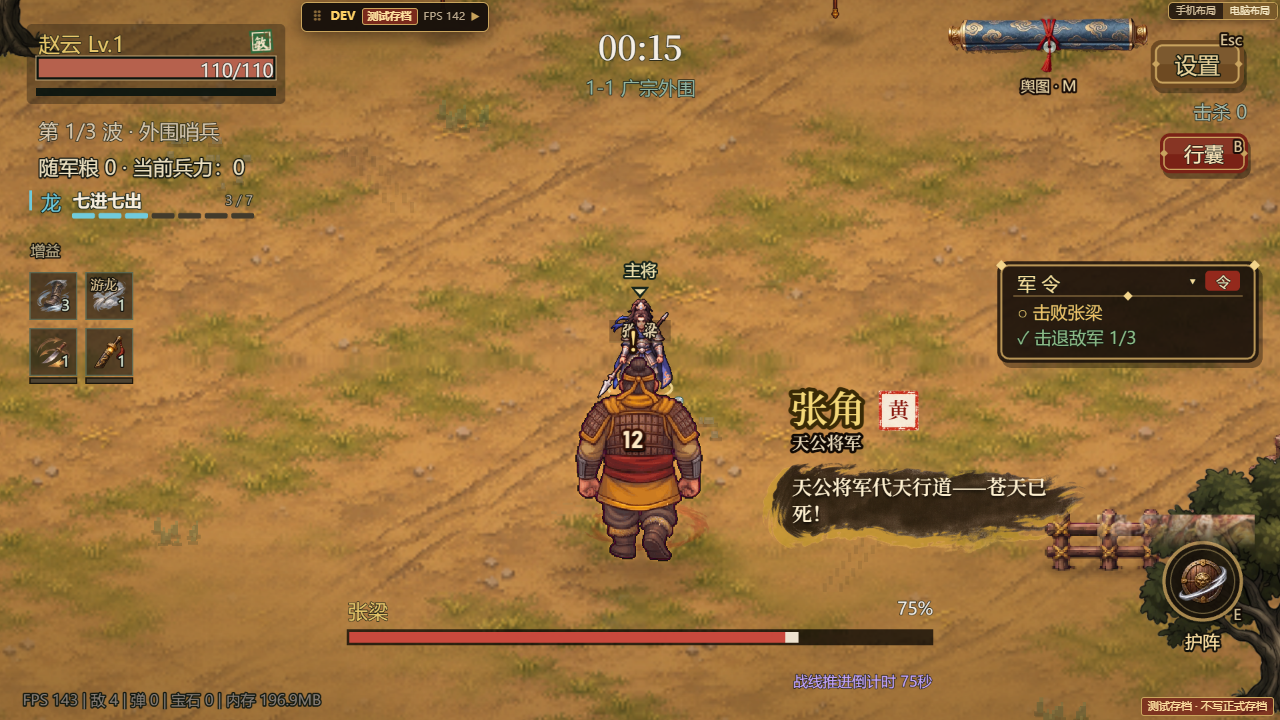
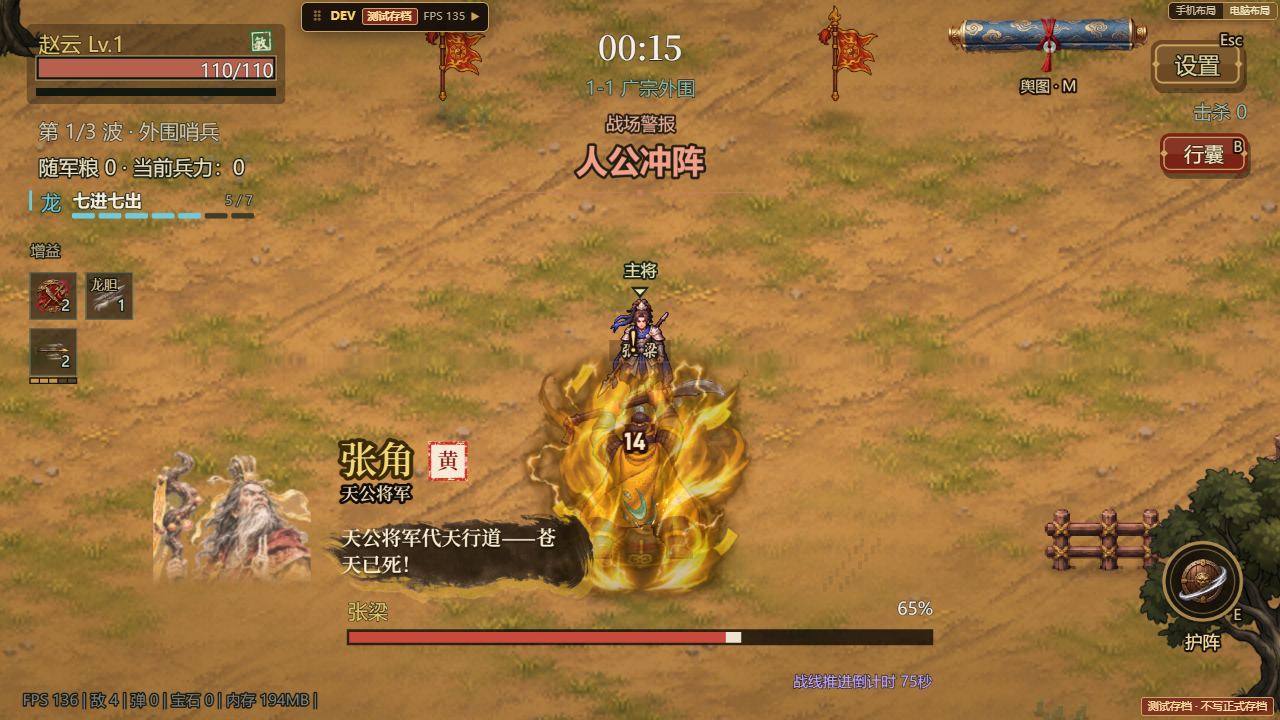
剧情台词卡挪到左下角（用户：「关于剧情对话挪到左下角」）
- 电脑布局：敌我台词卡都在左下角——增益图标列右边（x 106）、首领血条上面（底边 y 446），不挡增益（最多 10 个）、首领血条、FPS 调试行、主将；
  立绘在左、台词在右、从左滑入，同一位置排队；宽收到 340；阵营色 / 朱印 / 称号照旧按说话人
- 手机布局不变（左下是摇杆）：敌方右、我方左
- 漆底备用卡同样放左下
- 战中卷轴（midScroll）是暂停战斗的居中大卷轴、带「继续」按钮，不是侧栏，保持居中
- test-story-barkcard：加「敌方也在左下」「我方同位置」两项；「剧情关掉」一项先等上一步截图的卡收完（之前机器忙时会误判），9/9

diff --git a/src/ui/StoryBarkCard.ts b/src/ui/StoryBarkCard.ts
@@ -2,7 +2,9 @@
  * 首领台词侧边立绘卡（2026-11-18 夜，统筹定「方案 2：不暂停」；2026-11-19 用户选定「电影感」样式，见 ui/StoryBarkCardStyles.ts，下面的漆底卡只在手绘件载不到时用）：首领登场 / 二阶段 / 倒下等剧情 bark 说话时，
  * 屏幕边上滑进一张半透明黑漆描金小卡（2026-11-19 起半透明，文字带阴影）——外侧是说话人的对白水墨立绘（ink_cast / ink_hero，取头肩），内侧是名字 + 台词（标题字）。
  * - 敌方从右边滑入、我方（可玩武将 / 主公）从左边；停 HOLD 毫秒后滑出；几句挨得近就排队一张一张出。
- * - 放在侧边空带：右边在军令面板下、护阵按钮上，左边在增益图标下；不挡首领血条（底部中间）、军令、舆图、主将（屏幕中间）。
+ * - 电脑布局（2026-11-19 用户「剧情对话挪到左下角」）：敌我都在左下角——增益图标列右边（增益最多 10 个、5 行，到 y≈408、x≈100）、首领血条（x ≥ 260、y ≈ 450–484）上面、
+ *   左下 FPS 调试行上面，不挡主将（屏幕中间）；立绘在左、台词在右、从左滑入，同一位置排队。手机仍按旧摆法：敌方右边、我方左边（左下是摇杆）。
+ * - 旧摆法放在侧边空带：右边在军令面板下、护阵按钮上，左边在增益图标下；不挡首领血条（底部中间）、军令、舆图、主将（屏幕中间）。
  * - 用真实时钟（performance.now）推进，不受战斗暂停影响；不暂停战斗、不吃点击。
  * - 没有立绘时画一枚朱文名字章代替（与剧情卷轴一致）。
  */
@@ -16,6 +18,8 @@ export interface BarkCardLine { side: 'left' | 'right'; name: string; text: stri
 /** 卡片尺寸与时长（毫秒）；top 是卡片顶边的 y（游戏坐标：电脑布局 960 宽，显示时放大到 1280×720；右边夹在军令面板（底 ≈271）与护阵按钮（顶 ≈405）之间，左边在增益图标（底 ≈290）下）。 */
 // 2026-11-19 用户「用药和军令重叠了」：右边的卡让开最右一列圆钮（用药 / 加点 / 护阵，x ≥ 864）——电脑版右缘留 rightClear
 export const BARK_CARD = { w: 330, h: 100, face: 86, hold: 2700, slide: 260, gap: 140, top: { right: 290, left: 300 }, margin: 10, rightClear: 104 } as const;
+/** 电脑布局左下角：卡的左边 x、底边 y（游戏坐标） */
+export const BARK_CORNER = { x: 106, bottom: 446 } as const;
 const sideMargin = (side: 'left' | 'right'): number => side === 'right' && IS_DESKTOP ? BARK_CARD.rightClear : BARK_CARD.margin;
 const STATE_KEY = '__storyBarkCards';
 /** 出过的卡（名字 + 台词）记一笔，最多 50 条（测试读：scene.data.get('__storyBarkCardLog')）。 */
@@ -55,7 +59,7 @@ function withPortrait(scene: Phaser.Scene, key: string | undefined, go: () => vo
 
 function build(scene: Phaser.Scene, line: BarkCardLine, done: () => void): void {
   if (scene.sys.settings.status >= Phaser.Scenes.SHUTDOWN) { done(); return; }
-  const C = BARK_CARD, right = line.side === 'right', x0 = right ? GAME_WIDTH - sideMargin('right') - C.w : C.margin, y0 = C.top[line.side];
+  const C = BARK_CARD, right = line.side === 'right' && !IS_DESKTOP, x0 = IS_DESKTOP ? BARK_CORNER.x : right ? GAME_WIDTH - sideMargin('right') - C.w : C.margin, y0 = IS_DESKTOP ? BARK_CORNER.bottom - C.h : C.top[line.side];
   const off = right ? C.w + C.margin + 20 : -(C.w + C.margin + 20);
   const root = scene.add.container(x0 + off, y0).setScrollFactor(0).setDepth(DEPTH.overlay - 8).setName('story-bark-card');
   root.setData('side', line.side).setData('name', line.name).setData('text', line.text);
@@ -98,7 +102,7 @@ function build(scene: Phaser.Scene, line: BarkCardLine, done: () => void): void 
 /** 电影感台词卡（ui/StoryBarkCardStyles.ts） */
 function buildStyled(scene: Phaser.Scene, line: BarkCardLine, done: () => void): void {
   if (scene.sys.settings.status >= Phaser.Scenes.SHUTDOWN) { done(); return; }
-  const card = buildCinematic(scene, line, GAME_WIDTH, sideMargin(line.side));
+  const card = buildCinematic(scene, line, GAME_WIDTH, sideMargin(line.side), IS_DESKTOP ? BARK_CORNER : undefined);
   const root = card.root.setDepth(DEPTH.overlay - 8).setName('story-bark-card');
   root.setData('side', line.side).setData('name', line.name).setData('text', line.text).setData('style', 'cinematic');
   if (line.portrait && scene.textures.exists(line.portrait)) root.setData('portrait', line.portrait);

diff --git a/src/ui/StoryBarkCardStyles.ts b/src/ui/StoryBarkCardStyles.ts
@@ -70,12 +70,16 @@ interface In { side: 'left' | 'right'; name: string; text: string; portrait?: st
 const txt = (s: Phaser.Scene, x: number, y: number, v: string, size: number, color: string, extra: Phaser.Types.GameObjects.Text.TextStyle = {}): Phaser.GameObjects.Text =>
   s.add.text(x, y, v, { fontFamily: HEADING_FONT, fontSize: size + 'px', color, resolution: 2, ...extra }).setScrollFactor(0);
 
-/** 电影感台词卡（敌方右、我方左；游戏坐标，电脑布局 960 宽）：外侧立绘一栏、内侧文字一栏，台词不压立绘。 */
-export function buildCinematic(s: Phaser.Scene, l: In, W: number, margin: number): StyledCard {
-  const right = l.side === 'right', ally = !right, f = factionOf(l.id, ally);
-  const w = 372, PW = 124, gap = 10, colW = w - PW - gap, x0 = right ? W - margin - w : margin, y0 = 290;
+/**
+ * 电影感台词卡（游戏坐标，电脑布局 960 宽）：外侧立绘一栏、内侧文字一栏，台词不压立绘。
+ * place 给了（电脑布局，2026-11-19 用户「剧情对话挪到左下角」）：不分敌我都放左下——左边 x = place.x、底边 = place.bottom，立绘在左栏、台词在右栏、从左滑入，宽收到 340；
+ * 没给（手机）：敌方右、我方左（旧摆法）。阵营色 / 朱印 / 称号始终按说话人（side 是说话人的阵营）。
+ */
+export function buildCinematic(s: Phaser.Scene, l: In, W: number, margin: number, place?: { x: number; bottom: number }): StyledCard {
+  const ally = l.side === 'left', right = !place && !ally, f = factionOf(l.id, ally);
+  const w = place ? 340 : 372, PW = 124, gap = 10, colW = w - PW - gap, x0 = place ? place.x : right ? W - margin - w : margin;
   const cx0 = right ? 0 : PW + gap; // 文字栏左边
-  const root = s.add.container(x0, y0).setScrollFactor(0);
+  const root = s.add.container(x0, 0).setScrollFactor(0);
   // 名字（大号标题字）+ 阵营朱印 + 称号
   const tx = cx0 + 12, tw = colW - 30;
   const name = txt(s, tx, 0, l.name, 28, f.light, { stroke: f.dark, strokeThickness: 6 }).setName('story-bark-card-name');
@@ -85,7 +89,8 @@ export function buildCinematic(s: Phaser.Scene, l: In, W: number, margin: number
   // 台词：在文字栏里换行；笔刷带只铺文字栏，高度跟着台词
   const say = txt(s, tx + 4, 0, l.text, 15, '#fff1d0', { wordWrap: { width: tw, useAdvancedWrap: true }, lineSpacing: 2 }).setShadow(0, 2, '#000000', 4, false, true).setName('story-bark-card-text');
   if (say.height > 66) say.setFontSize(13);
-  const sy = 56, sh = Math.max(52, say.height + 24), h = sy + sh;
+  const sy = 56, sh = Math.max(52, say.height + 24), h = sy + sh, y0 = place ? place.bottom - h : 290;
+  root.setY(y0);
   say.setY(sy + (sh - say.height) / 2);
   // 墨迹晕开（入场时在笔刷带后面放一遍，手绘 8 帧）
   const bloom = s.textures.exists('barkui_inkbloom') ? s.add.sprite(cx0 + colW / 2, sy + sh / 2, 'barkui_inkbloom', 0).setDisplaySize(colW * .95, sh * 2.2).setScrollFactor(0).setAlpha(.7).setName('story-bark-card-ink') : null;
